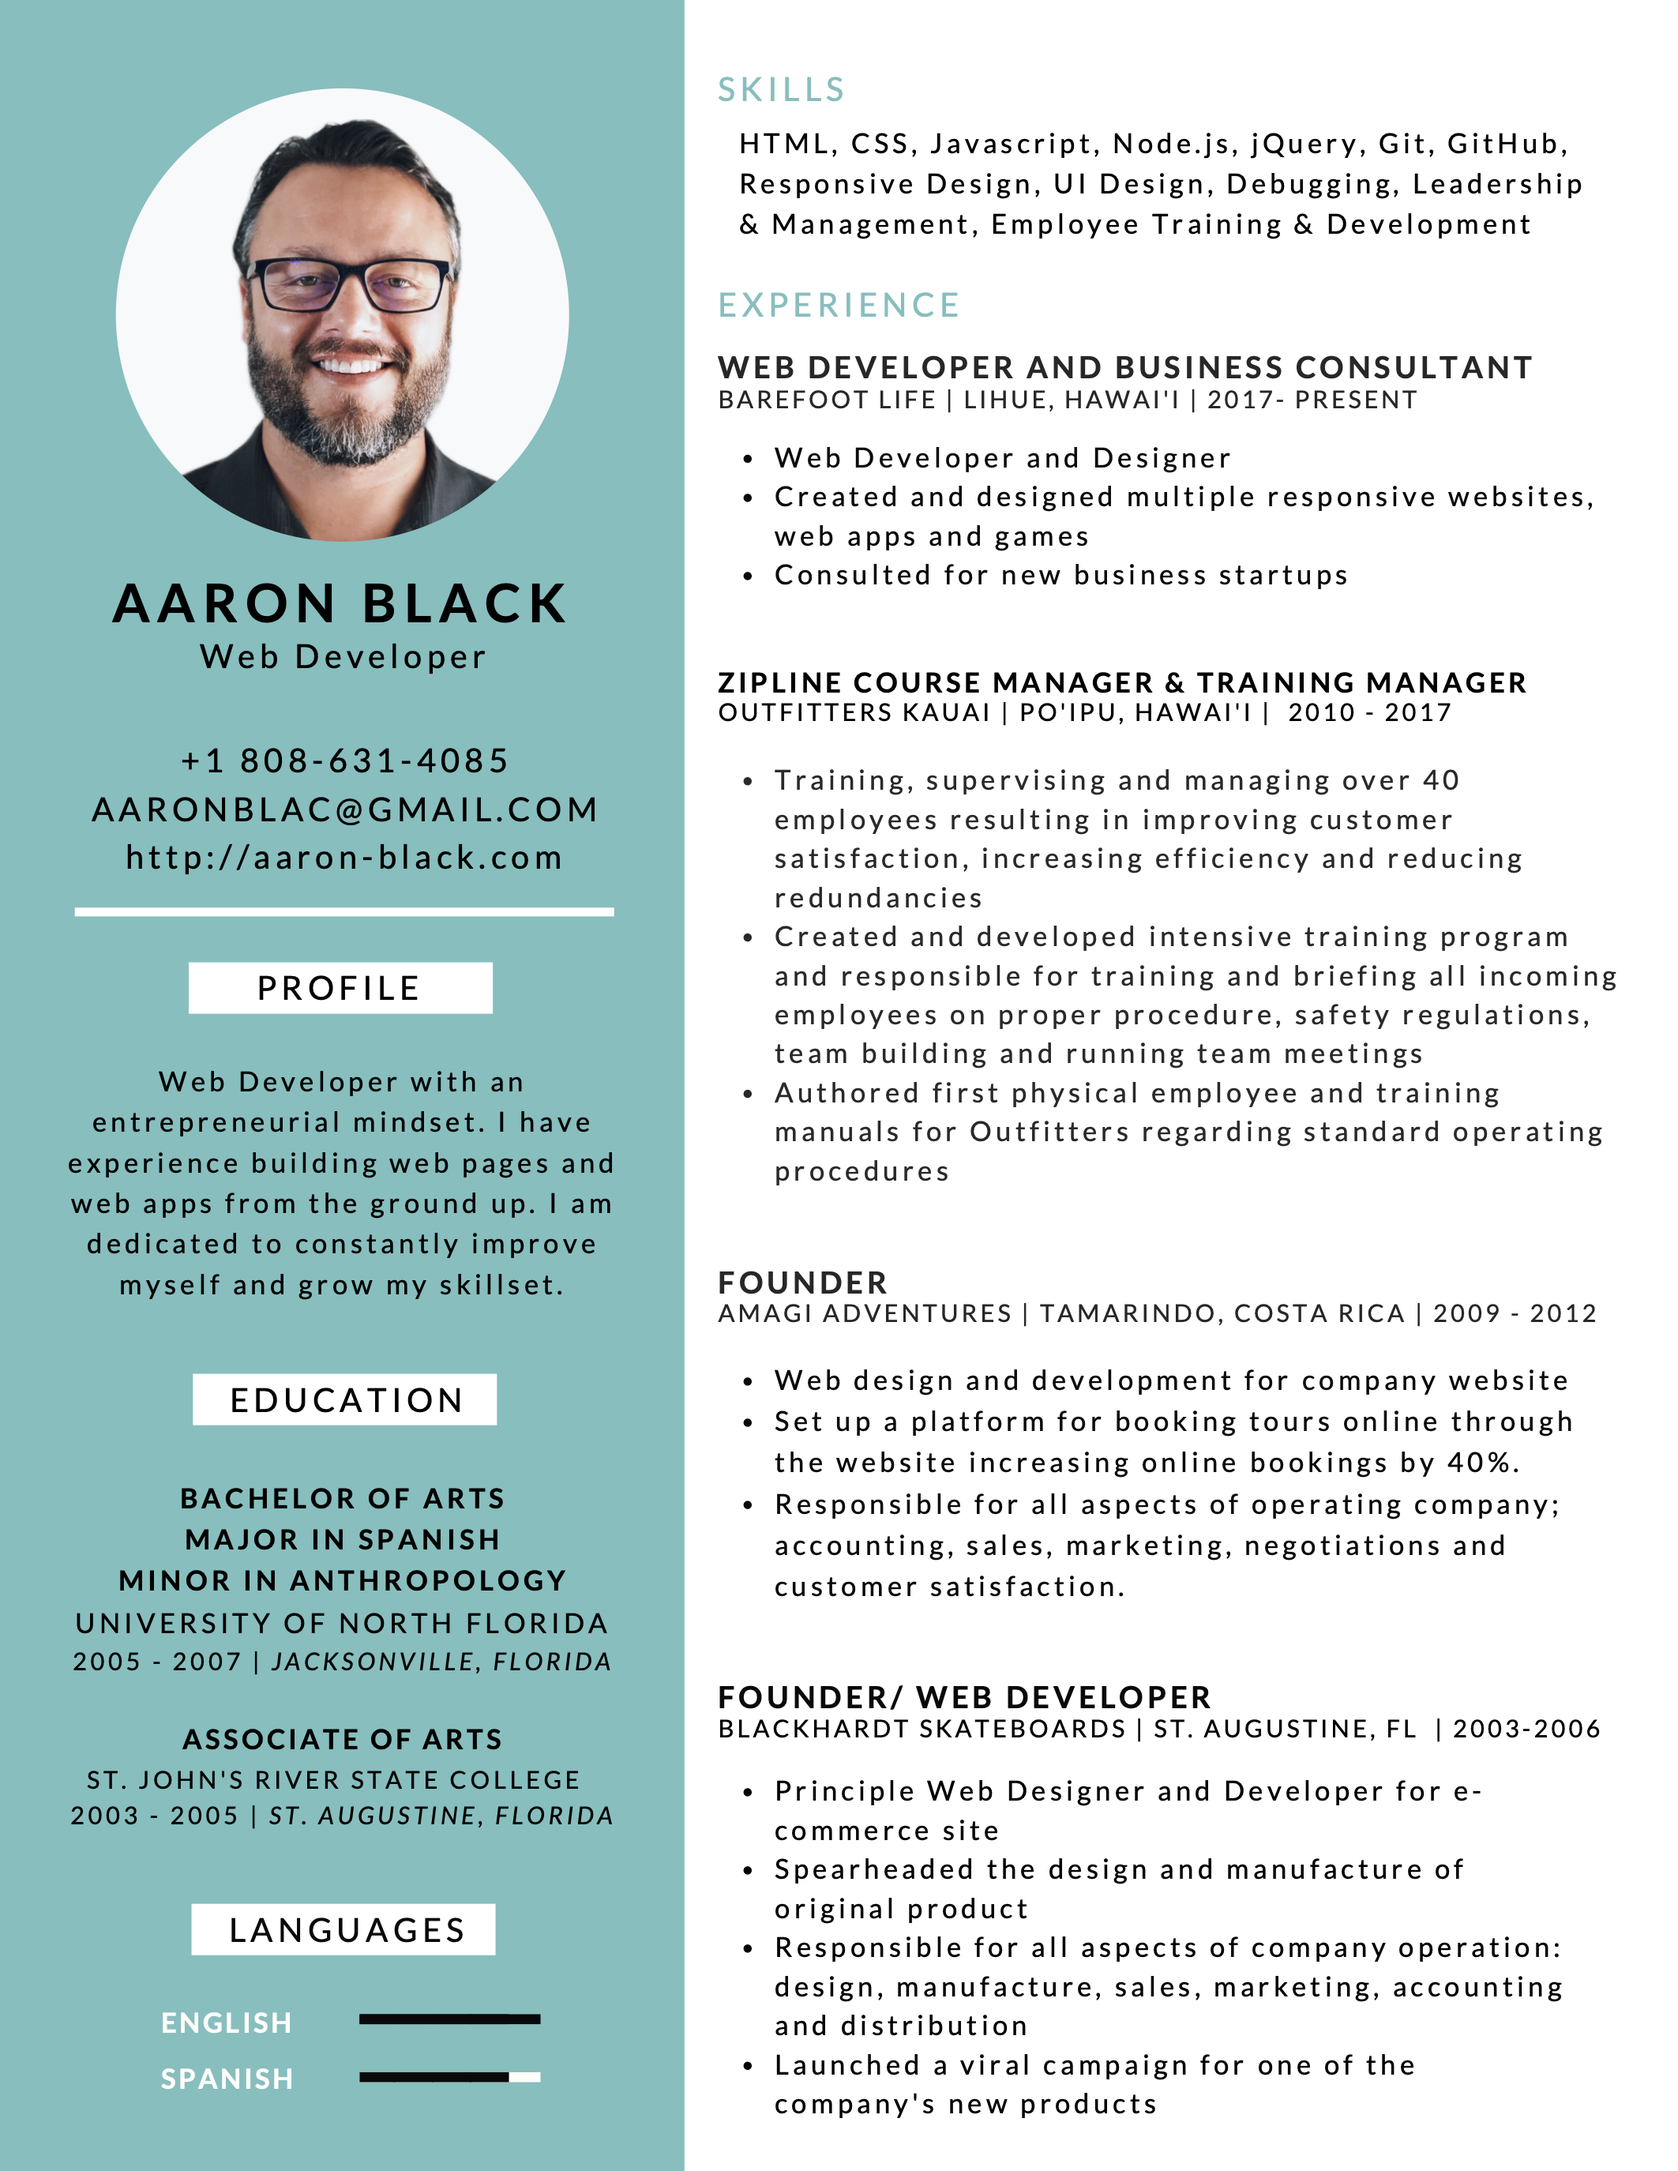
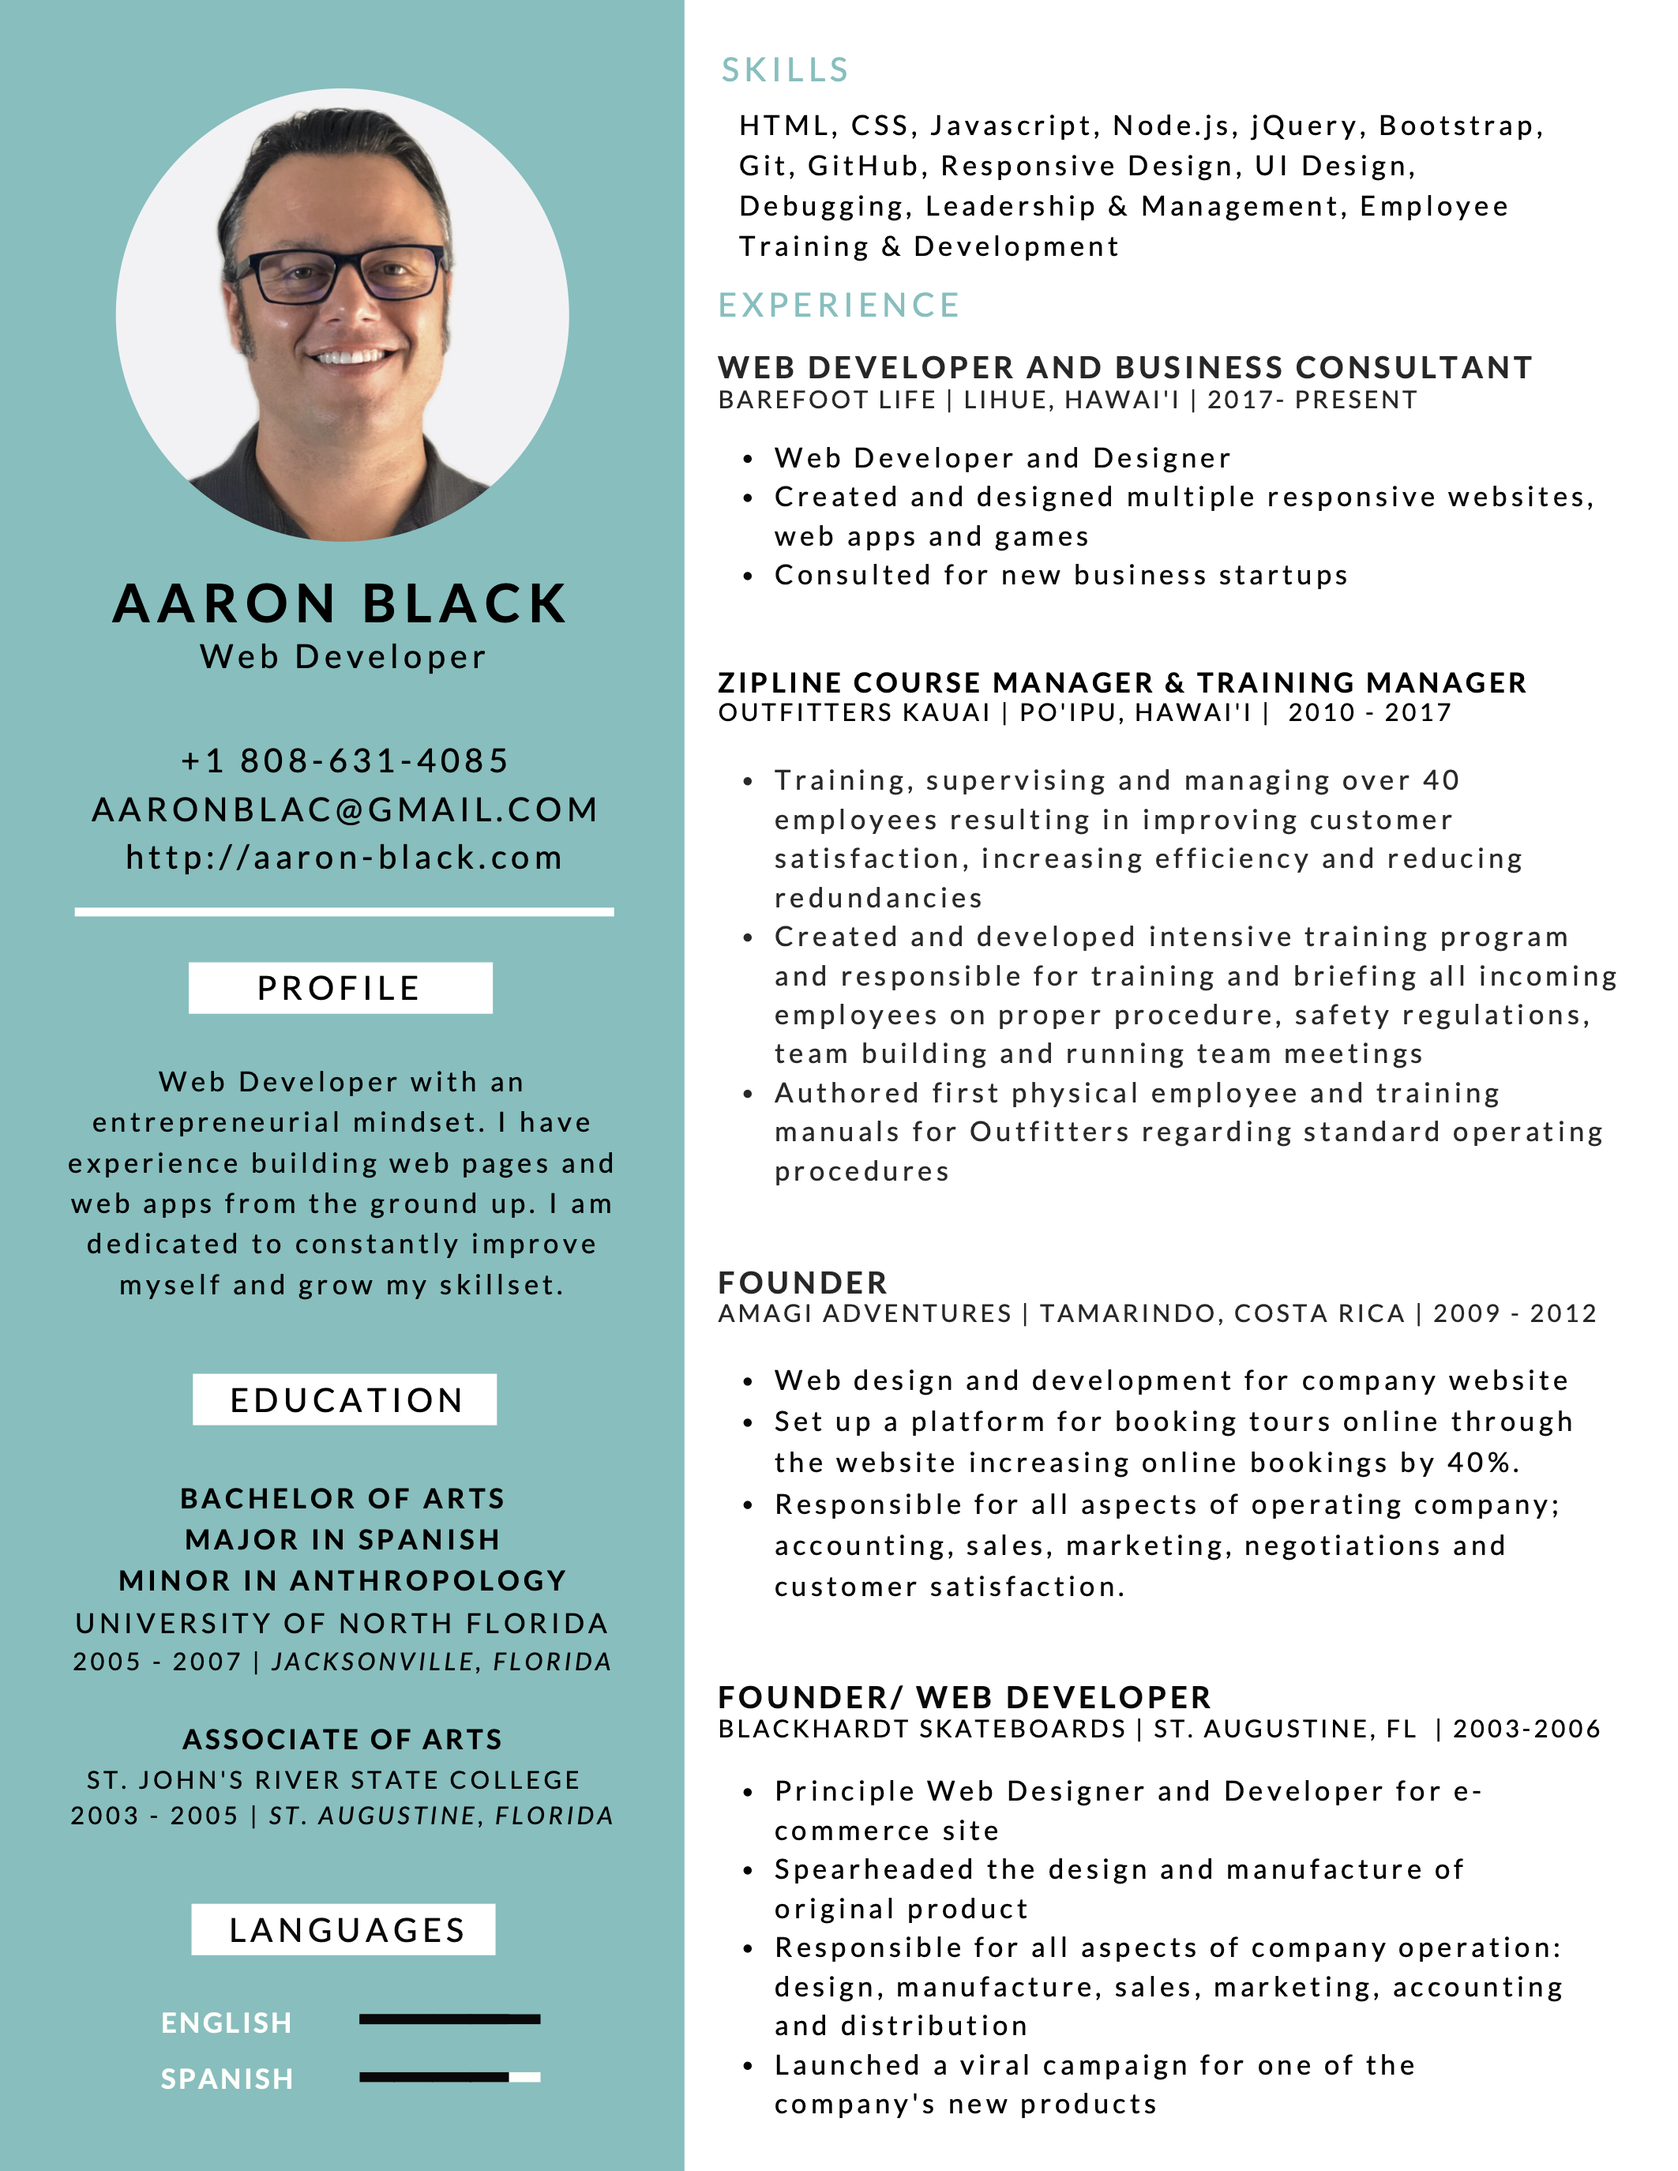
update resume and pic

Changed region(s): [[0.4348, 0.0309, 0.9318, 0.1237], [0.1242, 0.0309, 0.3106, 0.2474], [0.0932, 0.2164, 0.1242, 0.2474]]

diff --git a/index.html b/index.html
@@ -59,7 +59,7 @@
 
   <div class="">
     <div id="about" class="sect profile">
-      <div><img class="face" src="images/HeadS.JPG" alt="my face"></div>
+      <div><img class="face" src="images/aaronFace.jpeg" alt="my face"></div>
       <h2>Hello.</h2>
       <p>I have always believed in the philosophy of going after your dreams, no matter what the chances of achieving them or how difficult it might be. Nothing great has ever been accomplished in the history of the world without someone taking that first tiny step, that first risk or just asking that first question of “can I achieve this?”. I am a Web Developer and Entrepreneur who is constantly learning new skills and am passionate about building my knowledge in all areas of my life, especially Web Development. It offers endless opportunities for personal growth and the adventure of gaining new knowledge that is evolving daily. I am dedicated to constantly growing my <a class="pj" href="#skills">skill-set</a> and improving my code. Look below to see a few of my <a class="pj" href="#projects">projects.</a> </p>
     </div>
